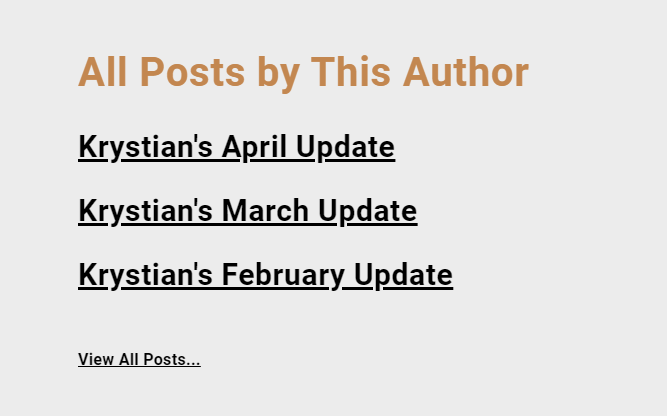
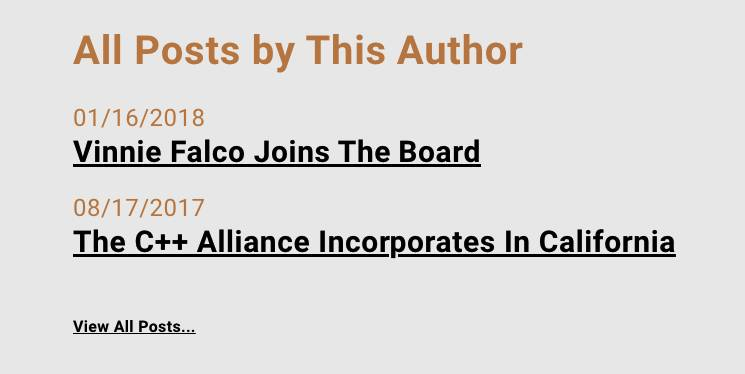
Set Louis as an author on some company posts
- Set Louis as an author on some company posts
- Update some wiki assets

diff --git a/_layouts/post.html b/_layouts/post.html
@@ -18,14 +18,19 @@ type: article
       <div class="title-section center">
         <h2 class='text-l news-title no-border'>{{ page.title }}</h2>
 
+        {% if page.author-name %}
+          <div class='author d-iblock'>
+            <span class='text-xxs author-name'>By
+              {{page.author-name}} on
+            </span>
+          </div>
 
-
-        {% if page.author-id %}
+        {% elsif page.author-id %}
         <div class='author d-iblock'>
           <!-- list of all potential authors -->
 
           <span class='text-xxs author-name'>By
-              <a class='link' href='{{ site.baseurl }}/people/{{page.author-id}}'>
+              <a class='link' href="{{ site.baseurl }}/people/{{page.author-id}}">
 
               {% assign people-pages = site.pages %}
               {% assign page_author-id = page.author-id %}
@@ -33,13 +38,11 @@ type: article
 
                 {% if people.id == page_author-id %}
                   {{people.member-name}}
+                  {% break %}
                 {% endif %}
-
               {% endfor %}
 
-              {% if page.author-id %}
               </a> on
-              {% endif %}
           </span>
         </div>
         {% endif %}
@@ -57,7 +60,6 @@ type: article
       <h2 class='header text-xl recent-post-header'>All Posts by This Author</h2>
     </div>
     <div class='news-content formatted-text'>
-      {% assign posts = site.posts | where:'categories', page.categories %}
       <ul>
         {% for post in site.posts %}
         {% if post.categories == page.categories %}

diff --git a/_posts/2018-01-09-Technical-committee-established.md b/_posts/2018-01-09-Technical-committee-established.md
@@ -1,7 +1,8 @@
 ---
 layout: post
 nav-class: dark
-categories: company
+categories: company, louis
+author-id: louis
 ---
 The board of directors establishes the Technical Committee, whose job
 is to inform the CEO and board on all technical matters such as code

diff --git a/_posts/2018-05-30-Member-of-the-international-committee-for-information-technology-standards.md b/_posts/2018-05-30-Member-of-the-international-committee-for-information-technology-standards.md
@@ -1,7 +1,8 @@
 ---
 layout: post
 nav-class: dark
-categories: company
+categories: company, louis
+author-id: louis
 ---
 The Alliance is member of the
 <a href="http://www.incits.org/">International Committee for Information Technology Standards</a>.

diff --git a/images/wiki/post/2021-02-04-Sample-Post1.md b/images/wiki/post/2021-02-04-Sample-Post1.md
@@ -1,9 +1,9 @@
 ---
 layout: post
 nav-class: dark
-categories: krystian
-title: Krystian's March Update
-author-id: krystian
+categories: louis
+title: Sample Post 1
+author-id: louis
 ---
 
 This is an example of a blog post.

diff --git a/_posts/2018-02-22-Corporate-logo-is-adopted.md b/_posts/2018-02-22-Corporate-logo-is-adopted.md
@@ -1,7 +1,8 @@
 ---
 layout: post
 nav-class: dark
-categories: company
+categories: company, louis
+author-id: louis
 title: Corporate Logo Is Adopted
 hero-image: 2018-02-22-Corporate-logo-is-adopted.png
 ---

diff --git a/_posts/2017-12-10-Incorp-engaged-as-registered-agent.md b/_posts/2017-12-10-Incorp-engaged-as-registered-agent.md
@@ -1,7 +1,8 @@
 ---
 layout: post
 nav-class: dark
-categories: company
+categories: company, louis
+author-id: louis
 ---
 The Alliance engages
 <a href="https://www.incorp.com/">InCorp Services, Inc.</a>

diff --git a/_posts/2017-12-05-Foundation-Group-is-engaged-for-registration-service.md b/_posts/2017-12-05-Foundation-Group-is-engaged-for-registration-service.md
@@ -1,7 +1,8 @@
 ---
 layout: post
 nav-class: dark
-categories: company
+categories: company, louis
+author-id: louis
 ---
 The Alliance engages
 <a href="https://www.501c3.org">Foundation Group</a>,

diff --git a/_posts/2019-3-06-Gold-sponsor-of-C++-now.md b/_posts/2019-3-06-Gold-sponsor-of-C++-now.md
@@ -1,7 +1,8 @@
 ---
 layout: post
 nav-class: dark
-categories: company
+categories: company, louis
+author-id: louis
 title: Gold sponsor of C++Now 2019
 ---
 The Alliance is a Gold sponsor for

diff --git a/_posts/2020-1-30-Gold-sponsor-of-C++-now.md b/_posts/2020-1-30-Gold-sponsor-of-C++-now.md
@@ -1,7 +1,8 @@
 ---
 layout: post
 nav-class: dark
-categories: company
+categories: company, louis
+author-id: louis
 title: Gold sponsor of C++Now 2020
 ---
 The Alliance is a Gold sponsor for

diff --git a/_posts/2018-05-06-Gold-sponsor-of-C++-Now.md b/_posts/2018-05-06-Gold-sponsor-of-C++-Now.md
@@ -1,7 +1,8 @@
 ---
 layout: post
 nav-class: dark
-categories: company
+categories: company, louis
+author-id: louis
 title: Gold sponsor of C++Now
 ---
 The Alliance is a Gold sponsor for

diff --git a/_posts/2018-08-06-The-Law-Firm-for-Non-Profits-engaged.md b/_posts/2018-08-06-The-Law-Firm-for-Non-Profits-engaged.md
@@ -1,7 +1,8 @@
 ---
 layout: post
 nav-class: dark
-categories: company
+categories: company, louis
+author-id: louis
 title: The Law Firm for Non-Profits engaged
 ---
 The Alliance engages

diff --git a/_posts/2018-01-05-Administrate-Cpplang-slack-workspace.md b/_posts/2018-01-05-Administrate-Cpplang-slack-workspace.md
@@ -1,7 +1,8 @@
 ---
 layout: post
 nav-class: dark
-categories: company
+categories: company, louis
+author-id: louis
 ---
 <p>
 The Alliance is now the owner and administrator of the
